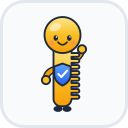
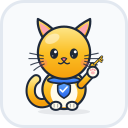
jwt-rust v1.0.3: 卡通橘猫 Kee 与 mascot::Expression 表情 API
- 新增 mascot::Expression（ALL/name/cn_name/svg），12 种表情编译期内嵌
- 站点图标 / favicon 换成新猫，补齐英文表情表与 v1.0.3 CHANGELOG
- Expression 查询方法补 #[must_use]

Changed region(s): [[0.1875, 0.125, 0.8125, 0.875]]

diff --git a/src/mascot.rs b/src/mascot.rs
@@ -93,6 +93,7 @@ impl Expression {
     ];
 
     /// 英文标识，与 SVG 文件名一致。
+    #[must_use]
     pub const fn name(self) -> &'static str {
         match self {
             Self::Smile => "smile",
@@ -111,6 +112,7 @@ impl Expression {
     }
 
     /// 中文名，与 README 的表情表一致。
+    #[must_use]
     pub const fn cn_name(self) -> &'static str {
         match self {
             Self::Smile => "笑",
@@ -129,6 +131,7 @@ impl Expression {
     }
 
     /// 对应的 SVG 形象（编译期内嵌 docs/pet-expressions/*.svg）。
+    #[must_use]
     pub const fn svg(self) -> &'static str {
         match self {
             Self::Smile => include_str!("../docs/pet-expressions/smile.svg"),

diff --git a/README.en.md b/README.en.md
@@ -858,6 +858,18 @@ Runnable example (prints the banner, main figure, and 12 expression byte counts)
 cargo run --example mascot
 ```
 
+## Project Mascot Expressions · Kee 钥匙小卫
+
+| **Smile** `:emoji-smile:` | **Joy** `:emoji-joy:` | **Cry** `:emoji-cry:` | **Depressed** `:emoji-depressed:` | **Terrified** `:emoji-terrified:` | **Angry** `:emoji-angry:` |
+|:---:|:---:|:---:|:---:|:---:|:---:|
+| ![Smile](./docs/pet-expressions/smile.svg) | ![Joy](./docs/pet-expressions/joy.svg) | ![Cry](./docs/pet-expressions/cry.svg) | ![Depressed](./docs/pet-expressions/depressed.svg) | ![Terrified](./docs/pet-expressions/terrified.svg) | ![Angry](./docs/pet-expressions/angry.svg) |
+
+| **Coquettish** `:emoji-coquettish:` | **Cute** `:emoji-cute:` | **Pleasing** `:emoji-pleasing:` | **Knocking** `:emoji-knocking:` | **Facepalm** `:emoji-facepalm:` | **Tongue** `:emoji-tongue:` |
+|:---:|:---:|:---:|:---:|:---:|:---:|
+| ![Coquettish](./docs/pet-expressions/coquettish.svg) | ![Cute](./docs/pet-expressions/cute.svg) | ![Pleasing](./docs/pet-expressions/pleasing.svg) | ![Knocking](./docs/pet-expressions/knocking.svg) | ![Facepalm](./docs/pet-expressions/facepalm.svg) | ![Tongue](./docs/pet-expressions/tongue.svg) |
+
+> 12 animated forms: smile / joy / cry / depressed / terrified / angry / coquettish / cute / pleasing / knocking / facepalm / tongue. Each SVG carries its own expression, emotion effects and motion, and respects `prefers-reduced-motion`.
+
 ## Open Source is Not Easy, Your Support is Welcome
 
 | WeChat | Alipay |

diff --git a/CHANGELOG.md b/CHANGELOG.md
@@ -2,6 +2,17 @@
 
 本项目遵循 [Keep a Changelog](https://keepachangelog.com/zh-CN/1.1.0/) 与 [语义化版本](https://semver.org/lang/zh-CN/)。
 
+## [1.0.3] - 2026-10-19
+
+### Added
+
+- `mascot::Expression`：12 种宠物表情形态（笑 / 欢乐 / 哭 / 沮丧 / 惊恐 / 愤怒 / 撒娇 / 卖萌 / 讨好 / 敲打 / 捂脸 / 吐舌头）编译期内嵌，提供 `ALL` / `name()` / `cn_name()` / `svg()`
+
+### Changed
+
+- 项目宠物重绘为卡通橘猫 Kee：猫有九命=九种接入，八根胡须=八个框架适配层，爪中钥匙=JWT，颈圈蓝盾=校验与黑名单；`docs/pet.svg`、12 种表情 SVG、终端横幅、社交预览图与站点图标同步更新
+- README（中英）去除 HTML 标签，改用纯 Markdown；补英文表情表与 `mascot::Expression` 用法示例
+
 ## [1.0.2] - 2026-10-11
 
 多代理深度审查（安全 / 正确性 / Rust 地道性 / 性能与依赖四域并行）后的修复版，全部为小 diff，无破坏性 API 变更。
